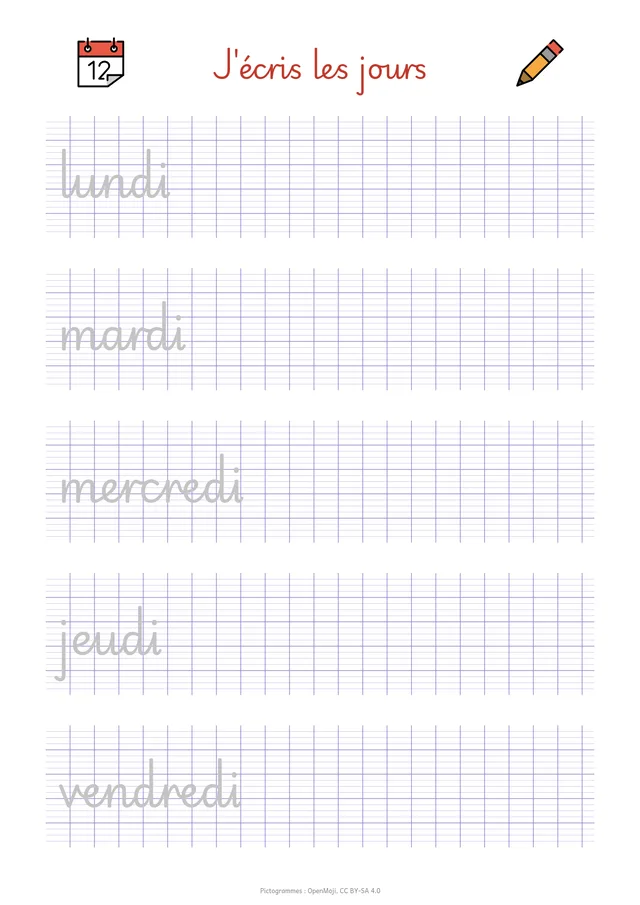
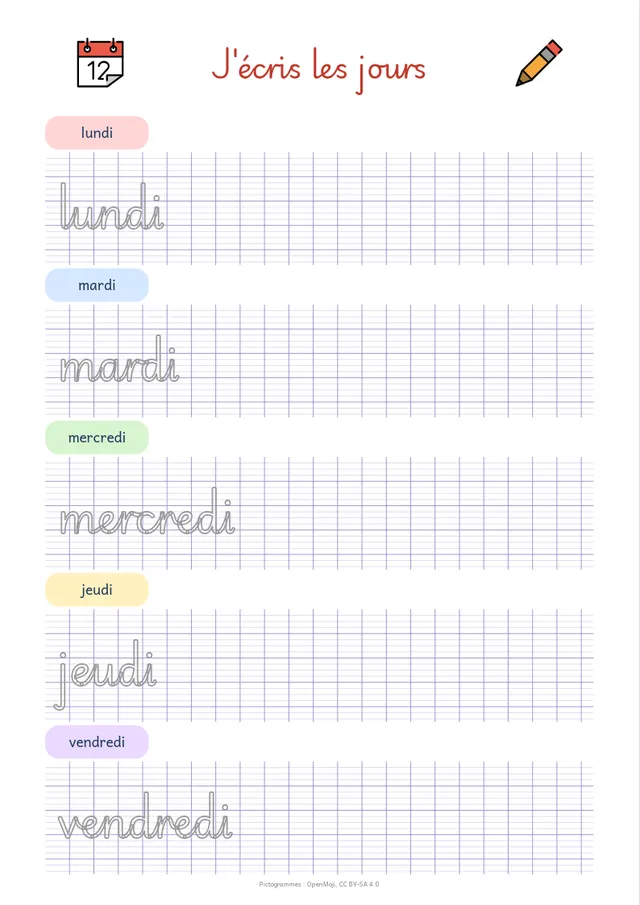
docs: nouveautés de la 0.19, README, site et captures à jour
- Écran « Nouveautés » : six nouveautés pour la 0.19 (flèches qui suivent, chemins et crayon, bulles,
  exemples refaits, réglages de la page, plus simple au quotidien), cinq avec une capture.
- README : cadres autour d'un élément, taper pour écrire, Réglages de la page.
- Site : flèches, chemins, crayon et bulles ; légendes des exemples refaits ; pages d'exemples, écran de
  l'application et capture du README refaits.
- Captures : scènes de la 0.19 et des pages d'exemples ; capturer.sh force l'écran virtuel X11 (sous
  Wayland, l'application s'ouvrait sur le bureau) et un écran plus haut pour les pages entières.

Claude-Session: https://claude.ai/code/session_01RanHT46EuS5uCpfRj5GU87

diff --git a/site/index.html b/site/index.html
@@ -57,7 +57,7 @@
   </div>
 
   <figure class="colle">
-    <img src="img/app-anniversaire.webp" width="1440" height="1032" alt="L'écran de Cahutin : à gauche les outils et le tiroir Modèles ouvert sur les modèles pour la classe (memory, loto, lettres mobiles, présences, anniversaires), au centre la page « Joyeux anniversaire » avec son gâteau, ses ballons et le prénom à remplir, en haut le bandeau qui propose de la remplir avec la classe.\">
+    <img src="img/app-anniversaire.webp" width="1440" height="1032" alt="L'écran de Cahutin : à gauche les outils et le tiroir Modèles ouvert sur les modèles pour la classe (memory, loto, lettres mobiles, présences, anniversaires), au centre la page « Joyeux anniversaire » avec sa guirlande de fanions, ses ballons, le gâteau à colorier et le prénom à remplir, en haut le bandeau qui propose de la remplir avec la classe.">
   </figure>
 </header>
 
@@ -66,16 +66,16 @@
   <h2 id="exemples">Des exemples à modifier</h2>
   <p class="intro">Onze exemples sont fournis avec Cahutin. On en ouvre un depuis l'écran d'accueil, on remplace les photos et les textes, et on imprime. Les zones en pointillés attendent vos photos.</p>
   <ul class="exemples">
-    <li><img src="img/page-ferme.webp" width="640" height="905" loading="lazy" alt="Page « Notre sortie à la ferme » sur papier kraft : frise d'animaux, deux photos à déposer avec leur légende, une bulle de parole et une chèvre."><b>Sortie à la ferme</b><span>Frise d'animaux, photos légendées, bulle de parole.</span></li>
-    <li><img src="img/page-anniversaire.webp" width="640" height="905" loading="lazy" alt="Page « Joyeux anniversaire » : ballons et cadeaux en frise, gâteau entouré d'étoiles, prénom et âge de l'enfant à remplir."><b>Joyeux anniversaire</b><span>Prénom et âge remplis avec la classe.</span></li>
-    <li><img src="img/page-meteo.webp" width="640" height="905" loading="lazy" alt="Page « La météo de la semaine » sur petits carreaux : cinq jours avec soleil, nuage, pluie, neige et arc-en-ciel, et une flèche « Aujourd'hui »."><b>La météo de la semaine</b><span>Petits carreaux, une colonne par jour.</span></li>
-    <li><img src="img/page-prenom.webp" width="640" height="905" loading="lazy" alt="Page « J'écris mon prénom » : le prénom Léa en lettres creuses, puis des lignes Seyès, la première avec le prénom à repasser."><b>J'écris mon prénom</b><span>Lettres creuses, lignes Seyès à repasser.</span></li>
-    <li><img src="img/page-saisons.webp" width="640" height="905" loading="lazy" alt="Page « Les saisons » dans un cadre vert : printemps, été, automne et hiver, chacun avec une image et des lignes pour écrire."><b>Les saisons</b><span>Quatre cases, une image et des lignes par saison.</span></li>
-    <li><img src="img/page-emotions.webp" width="640" height="905" loading="lazy" alt="Page « Le loto des émotions » : douze cartes à découper, chacune avec un visage et son émotion."><b>Le loto des émotions</b><span>Douze cartes à découper.</span></li>
-    <li><img src="img/page-jours.webp" width="640" height="905" loading="lazy" alt="Page « J'écris les jours » : les jours de la semaine en cursive gris clair, à repasser sur des lignes Seyès."><b>J'écris les jours</b><span>Cursive à repasser sur Seyès.</span></li>
-    <li><img src="img/page-regles.webp" width="640" height="905" loading="lazy" alt="Affiche A3 « Les règles de la classe » : six règles, chacune avec son pictogramme."><b>Les règles de la classe</b><span>Une affiche A3, ou deux feuilles A4.</span></li>
-    <li><img src="img/page-sens.webp" width="640" height="905" loading="lazy" alt="Page « Mes cinq sens » : œil, oreille, nez, bouche et main, chacun avec son verbe et des lignes pour écrire."><b>Mes cinq sens</b><span>Pictogrammes et lignes d'écriture.</span></li>
-    <li><img src="img/page-porte-manteaux.webp" width="640" height="905" loading="lazy" alt="Planche d'étiquettes de porte-manteau : huit étiquettes colorées, chacune avec une photo et le prénom en capitales et en cursive à remplir."><b>Étiquettes de porte-manteau</b><span>Remplies d'un clic avec la classe.</span></li>
+    <li><img src="img/page-ferme.webp" width="640" height="905" loading="lazy" alt="Page « Notre sortie à la ferme » dans un cadre vert : un tracteur et un soleil autour du titre, la date, deux photos à déposer façon Polaroid avec leur légende, une bulle de parole qui vise la chèvre, des lignes pour écrire et des animaux dans le pré."><b>Sortie à la ferme</b><span>Photos façon Polaroid, bulle qui vise la chèvre.</span></li>
+    <li><img src="img/page-anniversaire.webp" width="640" height="905" loading="lazy" alt="Page « Joyeux anniversaire » : guirlande de fanions, ballons, gâteau à colorier entouré d'étoiles, prénom en lettres creuses et âge de l'enfant à remplir, une photo et des lignes pour écrire."><b>Joyeux anniversaire</b><span>Gâteau à colorier, prénom et âge remplis avec la classe.</span></li>
+    <li><img src="img/page-meteo.webp" width="640" height="905" loading="lazy" alt="Page « La météo de la semaine » sur petits carreaux : une carte de couleur par jour avec soleil, nuage, pluie, neige et arc-en-ciel, une flèche courbe « Aujourd'hui » et une bulle de pensée pour écrire."><b>La météo de la semaine</b><span>Une carte par jour, flèche courbe, bulle de pensée.</span></li>
+    <li><img src="img/page-prenom.webp" width="640" height="905" loading="lazy" alt="Page « J'écris mon prénom » : une photo à déposer, le prénom Léa en lettres creuses, des lignes Seyès, la première avec le prénom à repasser, et une étoile « Bravo »."><b>J'écris mon prénom</b><span>Modèle en lettres creuses, lignes Seyès.</span></li>
+    <li><img src="img/page-saisons.webp" width="640" height="905" loading="lazy" alt="Page « Les saisons » : quatre panneaux de couleur, printemps, été, hiver et automne, autour d'un arbre, chacun avec une image et des lignes pour écrire."><b>Les saisons</b><span>Quatre panneaux de couleur autour de l'arbre.</span></li>
+    <li><img src="img/page-emotions.webp" width="640" height="905" loading="lazy" alt="Page « Le loto des émotions » : douze cartes de couleur à découper, chacune avec un visage et son émotion."><b>Le loto des émotions</b><span>Douze cartes de couleur à découper.</span></li>
+    <li><img src="img/page-jours.webp" width="640" height="905" loading="lazy" alt="Page « J'écris les jours » : chaque jour de la semaine sur une étiquette de couleur, puis en cursive creuse à repasser sur des lignes Seyès."><b>J'écris les jours</b><span>Étiquettes de couleur, cursive à repasser.</span></li>
+    <li><img src="img/page-regles.webp" width="640" height="905" loading="lazy" alt="Affiche A3 « Les règles de la classe » : un bandeau bleu, six règles numérotées, chacune avec son pictogramme, et une place pour les signatures."><b>Les règles de la classe</b><span>Une affiche A3, ou deux feuilles A4.</span></li>
+    <li><img src="img/page-sens.webp" width="640" height="905" loading="lazy" alt="Page « Mes cinq sens » : une carte mentale, l'enfant au centre relié par des flèches à cinq cartes, œil, oreille, nez, bouche et main, chacune avec son verbe et des lignes pour écrire."><b>Mes cinq sens</b><span>Une carte mentale dont les flèches suivent les cartes.</span></li>
+    <li><img src="img/page-porte-manteaux.webp" width="640" height="905" loading="lazy" alt="Planche d'étiquettes de porte-manteau : huit étiquettes colorées, chacune avec une photo, un animal et le prénom en capitales et en cursive à remplir."><b>Étiquettes de porte-manteau</b><span>Remplies d'un clic avec la classe.</span></li>
   </ul>
   <figure class="colle petite">
     <img src="img/page-semaine.webp" width="902" height="638" loading="lazy" alt="Page en paysage « Notre semaine » : un emploi du temps en tableau, les jours en couleur, un pictogramme par activité, l'accueil, les rituels, la récréation et le repas sur toute la semaine.">
@@ -90,7 +90,7 @@
     <li><span class="pastille" aria-hidden="true"><img src="img/pastilles/1F9D2.svg" width="36" height="36" alt=""></span><h3>Remplir avec sa classe</h3>On colle la liste des prénoms une fois, ou on l'importe d'un tableur ou d'ONDE. Cahutin remplit ensuite une planche d'étiquettes (prénom en capitales, en script et en cursive), une page par enfant avec son âge, ou l'affiche des anniversaires, pour toute la classe, un niveau, un groupe ou les élèves que vous cochez.</li>
     <li><span class="pastille" aria-hidden="true"><img src="img/pastilles/1F4F7.svg" width="36" height="36" alt=""></span><h3>Poser ses photos</h3>On importe un dossier entier, on glisse chaque photo dans sa case, on la recadre d'un double-clic. On peut aussi coller une image copiée dans un autre logiciel, ou glisser des photos depuis ses dossiers. La photothèque de la classe garde les photos de l'année, rangées par jour, par enfant et par activité, et signale les enfants peu photographiés. Pour un enfant sans autorisation photo, on floute son visage d'un clic.</li>
     <li><span class="pastille" aria-hidden="true"><img src="img/pastilles/270F.svg" width="36" height="36" alt=""></span><h3>Écrire avec des polices d'école</h3>Cursive (Playwrite FR Moderne), écriture lisible pour les débutants (Andika), police pour les élèves dyslexiques (OpenDyslexic). Lettres à repasser, lignes Seyès dans un cadre où le texte se pose sur les lignes, styles Titre, Consigne, Prénom. Des listes à puces, l'interligne, une taille libre jusqu'à 400 pt, et un bouton pour les lettres difficiles à taper (É, À, Ç) et les guillemets.</li>
-    <li><span class="pastille" aria-hidden="true"><img src="img/pastilles/1F3A8.svg" width="36" height="36" alt=""></span><h3>Décorer, tracer, organiser</h3>Plus de 2 000 images à chercher en français, dont les rituels, le matériel et les émotions, les personnes dans toutes les couleurs de peau, et votre collection de dessins, gardée pour tous vos documents ; cadres, frises, fonds Seyès ou kraft. Des fiches de graphisme à repasser, avec de moins en moins de pointillés d'une ligne à l'autre, des labyrinthes, des dessins à compléter par symétrie. Des tableaux, un bloc répété sur toute la page, des repères de découpe. Les pages se remettent dans l'ordre en glissant leur miniature.</li>
+    <li><span class="pastille" aria-hidden="true"><img src="img/pastilles/1F3A8.svg" width="36" height="36" alt=""></span><h3>Décorer, tracer, organiser</h3>Plus de 2 000 images à chercher en français, dont les rituels, le matériel et les émotions, les personnes dans toutes les couleurs de peau, et votre collection de dessins, gardée pour tous vos documents ; cadres, frises, fonds Seyès ou kraft. Des flèches qui s'accrochent aux étiquettes et les suivent, des chemins en courbe, un crayon pour dessiner à main levée, des bulles de parole et de pensée qui visent celui qui parle. Des fiches de graphisme à repasser, avec de moins en moins de pointillés d'une ligne à l'autre, des labyrinthes, des dessins à compléter par symétrie. Des tableaux, un bloc répété sur toute la page, des repères de découpe. Les pages se remettent dans l'ordre en glissant leur miniature.</li>
     <li><span class="pastille" aria-hidden="true"><img src="img/pastilles/1F4D8.svg" width="36" height="36" alt=""></span><h3>Apprendre pas à pas</h3>Des bulles d'aide au bon moment, une visite d'une minute dans le menu Aide et des guides en images : créer un modèle, remplir avec sa classe, ranger la photothèque, flouter un visage, faire des étiquettes à découper… À la fin de chaque guide, « Me guider » montre les vrais boutons, un à un, sur votre propre document.</li>
     <li><span class="pastille" aria-hidden="true"><img src="img/pastilles/1F441.svg" width="36" height="36" alt=""></span><h3>À votre vue</h3>Un thème à votre goût, dont Nuit, sombre pour travailler le soir (la page reste blanche). Interface plus grande, police très lisible ou pour les lecteurs dyslexiques, contraste élevé, grandes poignées pour un écran tactile ou un tableau blanc. Pour le daltonisme : le nom de chaque couleur, des couleurs que tous distinguent, et un aperçu de la page telle que la voit un élève daltonien.</li>
     <li><span class="pastille" aria-hidden="true"><img src="img/pastilles/1F5A8.svg" width="36" height="36" alt=""></span><h3>Imprimer ou partager</h3>A5, A4 ou A3, une affiche A3 sur deux A4, des cartes en recto-verso ; PDF, ou fichier pour LibreOffice où tout reste modifiable. Cahutin prévient quand un contenu est tout près du bord. Dans LibreOffice, un tableau reste un vrai tableau, et un document retouché se rouvre dans Cahutin avec ses groupes, ses champs à remplir et ses pictogrammes. On peut aussi reprendre une fiche Word, PDF ou LibreOffice existante : textes, photos, tableaux et tracés à leur place.</li>

diff --git a/ui/src/lib/whatsNew.ts b/ui/src/lib/whatsNew.ts
@@ -1,5 +1,5 @@
 // Nouveautés des versions : une fenêtre montrée une fois, après la mise à jour, à qui utilisait déjà
-// Cahutin (un nouvel utilisateur a la visite guidée). Rouvrable depuis le menu Aide, où l'on retrouve aussi
+// Cahutin (un nouvel utilisateur a des bulles d'aide). Rouvrable depuis le menu Aide, où l'on retrouve aussi
 // les nouveautés des versions précédentes. Pour une nouvelle version : l'ajouter en tête de RELEASES, ses
 // captures dans `assets/nouveautes/<version>/`. Une capture n'est pas obligatoire : une nouveauté qui ne change
 // rien de visible (un fichier mieux relu, par exemple) n'en a pas, et se range après celles qui en ont.
@@ -18,6 +18,40 @@ export interface Release {
 
 /** De la plus récente à la plus ancienne. */
 export const RELEASES: Release[] = [
+  {
+    version: "0.19",
+    items: [
+      {
+        title: "Des flèches qui suivent",
+        text: "Tirez le bout d'un trait ou d'une flèche pour l'amener où vous voulez. « Début » et « Fin » choisissent ce qui termine chaque bout : une flèche, un rond, un carré, ou rien. Lâché près d'une étiquette, d'une forme ou d'une image, le bout s'y accroche : quand vous la déplacez, la flèche suit. Idéal pour un schéma ou une carte mentale.",
+        image: "/nouveautes/0.19/fleches.webp",
+      },
+      {
+        title: "Des chemins, des courbes et un crayon",
+        text: "« Prolonger » ajoute un coude à chaque clic sur la page ; tirer le milieu d'un trait le plie aussi. « Courbe » adoucit les angles, « Fermer » referme le chemin pour le remplir d'une couleur. Dans le tiroir Formes, la tuile « Crayon » dessine à main levée, à la souris ou au doigt.",
+        image: "/nouveautes/0.19/chemins.webp",
+      },
+      {
+        title: "Des bulles qui visent celui qui parle",
+        text: "Sélectionnez une bulle de parole : faites glisser le losange jaune pour diriger sa pointe. Le tiroir Formes a aussi une bulle de pensée, et le nuage est redessiné, comme à la main.",
+        image: "/nouveautes/0.19/bulles.webp",
+      },
+      {
+        title: "Des exemples refaits",
+        text: "Les onze exemples de l'accueil sont plus jolis, et chacun montre une autre façon de faire : photos façon Polaroid, guirlande de fanions, carte mentale, étiquettes de couleur. Ouvrez-en un, changez les photos et les textes, et imprimez.",
+        image: "/nouveautes/0.19/exemples.webp",
+      },
+      {
+        title: "Régler la page",
+        text: "Quand rien n'est sélectionné, le panneau Réglages, à droite, règle la page affichée : son format (A5, A4, A3), portrait ou paysage, son fond et le vis-à-vis.",
+        image: "/nouveautes/0.19/reglages.webp",
+      },
+      {
+        title: "Plus simple au quotidien",
+        text: "Sur un texte sélectionné, tapez directement au clavier : plus besoin de double-cliquer. Un modèle choisi sur une page vide la remplace, sans laisser de page blanche. Dans le tiroir Décors, les cadres s'appliquent aussi autour d'une photo, d'un texte ou d'un groupe. Au premier lancement, de petites bulles d'aide viennent au bon moment ; la visite guidée est dans le menu Aide.",
+      },
+    ],
+  },
   {
     version: "0.18",
     items: [

diff --git a/ui/src/lib/whatsNew.test.ts b/ui/src/lib/whatsNew.test.ts
@@ -39,9 +39,9 @@ test("each novelty has a title, a text, its own screenshot on disk if any, and n
   expect(new Set(images).size).toBe(images.length);
 });
 
-test("version 0.18 opens with bulleted lists", () => {
-  expect(WHATS_NEW.version).toBe("0.18");
-  expect(WHATS_NEW.items[0].image).toBe("/nouveautes/0.18/puces.webp");
+test("version 0.19 opens with arrows that follow", () => {
+  expect(WHATS_NEW.version).toBe("0.19");
+  expect(WHATS_NEW.items[0].image).toBe("/nouveautes/0.19/fleches.webp");
 });
 
 // L'état de l'enregistrement se voit au point du bouton « Enregistrer » : plus rien ne s'affiche près du titre. La

diff --git a/README.md b/README.md
@@ -51,14 +51,14 @@ Au premier lancement, Cahutin demande s'il doit vous prévenir quand une nouvell
 - **Modèles** fournis (Grille de photos, Récit, Page à compléter, Étiquettes, Étiquettes photo, Étiquettes 3 écritures, Photos et textes, Photos légendées, Affiche paysage), modèles pour la classe (Memory et Loto des prénoms, Lettres mobiles, J'écris mon prénom, Tableau des présences, Affiche des anniversaires) et modèles personnels (« Partir d'un modèle » > « Créer un modèle ») à partager entre collègues : chaque texte ou image y est « À remplir » ou « Fixe », et ce qui n'est ni l'un ni l'autre (une photo d'enfant posée avant) n'est pas gardé.
 - **Exemples** à découvrir depuis l'écran d'accueil : Sortie à la ferme, Joyeux anniversaire, La météo de la semaine, J'écris mon prénom, Les saisons, Notre semaine (emploi du temps), Le loto des émotions, J'écris les jours, Les règles de la classe (A3), Mes cinq sens, Étiquettes de porte-manteau.
 - **Photos** : import d'un dossier entier, photos du document (tiroir Images, une croix pour en retirer une), recadrage, miroir, coins arrondis, bordure, ombre, légende, flou des visages (repérés sur l'ordinateur ou tracés à la main) pour les enfants sans autorisation photo.
-- **Textes** : gras, italique, souligné, couleurs, alignement, listes à puces, interligne (Serré, Normal, Aéré ou Double), taille tapée librement de 4 à 400 pt ; polices lisibles pour l'école fournies (Andika, Atkinson Hyperlegible, OpenDyslexic, Playwrite FR Moderne pour la cursive), polices ajoutées et polices installées sur l'ordinateur ; lettres à repasser ou creuses, lignes d'écriture dans un cadre (Seyès, lignes, petits carreaux), où le texte peut se poser sur les lignes, styles de texte nommés (Titre, Consigne, Prénom, les vôtres) qui se modifient d'un coup. Pendant l'écriture, le bouton É écrit les lettres difficiles à taper (É, À, Ç…) et les guillemets « ». Un texte trop long est signalé, et « Agrandir le cadre » ou « Réduire le texte » le corrige d'un clic.
+- **Textes** : gras, italique, souligné, couleurs, alignement, listes à puces, interligne (Serré, Normal, Aéré ou Double), taille tapée librement de 4 à 400 pt ; polices lisibles pour l'école fournies (Andika, Atkinson Hyperlegible, OpenDyslexic, Playwrite FR Moderne pour la cursive), polices ajoutées et polices installées sur l'ordinateur ; lettres à repasser ou creuses, lignes d'écriture dans un cadre (Seyès, lignes, petits carreaux), où le texte peut se poser sur les lignes, styles de texte nommés (Titre, Consigne, Prénom, les vôtres) qui se modifient d'un coup. Sur un texte sélectionné, on tape directement au clavier, sans double-clic. Pendant l'écriture, le bouton É écrit les lettres difficiles à taper (É, À, Ç…) et les guillemets « ». Un texte trop long est signalé, et « Agrandir le cadre » ou « Réduire le texte » le corrige d'un clic.
 - **Classe** : liste des élèves (photo avec autorisation, symbole, niveau, groupe, date de naissance), collée ou importée d'un tableur ou d'un export ONDE (.csv), gardée sur l'ordinateur, avec la photothèque de l'année : les dossiers de photos de l'enseignant, suivis sans être copiés (seules de petites vignettes sont gardées), photos rangées par jour, élèves présents et activités cochés d'un clic (photo en grand, « Marquer un enfant »), enfants peu photographiés signalés. Réglages d'un coup pour une grande classe (autorisation photo, un symbole par enfant, et un même niveau ou un même groupe pour les élèves cochés). Génération d'une page par élève, d'une planche d'étiquettes remplie ou d'une affiche, pour toute la classe, un niveau, un groupe ou les élèves cochés un par un ; champs de la classe posés depuis le tiroir Champs ou le bouton « { } Champ » ({prenom}, {nom}, {groupe}, {age}, {anniversaire}, lettres du prénom), affichés en pastille, imprimés en blanc tant qu'ils ne sont pas remplis ; date (plusieurs formats), année scolaire, saison, classe, école et enseignant, écrits à la pose ou à la création de la page.
 - **Tableaux** : cases avec texte, pictogramme ou photo, lignes et colonnes à ajouter ou retirer, cases fusionnées (leur texte est gardé), traits réglables ; Tab passe à la case suivante, Maj+Tab à la précédente, et des cellules copiées depuis un tableur se collent une par case.
 - **Formes** : rectangle, ellipse, trait, flèche, double flèche, étoile, cœur, bulle de parole, nuage, posés d'un clic ou glissés sur la page ; traits et flèches qui se règlent en tirant leurs bouts, avec au choix à chaque bout une flèche pleine, une flèche ouverte, un rond ou un carré, en trois tailles ; chemins à coudes ou en courbe, prolongés clic après clic ou pliés en tirant le milieu d'un segment, ouverts ou fermés et remplis ; flèches qui s'accrochent aux éléments et les suivent quand on les déplace (schémas) ; crayon pour dessiner à main levée ; bulles de parole et de pensée dont on dirige la pointe ; fiches de graphisme (ponts, vagues, boucles, créneaux… à repasser, à la taille de la section ; pointillés sur toute la ligne, sur une partie ou de moins en moins d'une ligne à l'autre, lignes guides ou couloir, point vert et flèche de départ, réglables même une fois les lignes posées), chemins en pointillés, labyrinthes, dessins à compléter par symétrie, repères pour écrire (point de départ, flèche).
 - **Images** : un seul tiroir pour les photos du document (et la photothèque de la classe), la Collection (les dessins et illustrations de l'enseignant, gardés pour tous ses documents ; une image posée s'y ajoute d'un clic ; une page « Ma collection », depuis l'accueil, les range par thème, les renomme et remet les images retirées) et plus de 2 000 pictogrammes OpenMoji avec recherche en français (catégories Rituels, Matériel, Émotions, Corps et soins pour la classe), personnes et mains dans cinq couleurs de peau, images à colorier (contour noir). Une recherche cherche à la fois dans la Collection et les pictogrammes.
-- **Décors** : cadres de page et frises (pictogrammes ou images de la collection, taille et espacement réglables, même après coup), dont les images se choisissent dans une fenêtre.
+- **Décors** : cadres de page, aussi autour d'une photo, d'un texte ou d'un groupe (le cadre suit l'élément), et frises (pictogrammes ou images de la collection, taille et espacement réglables, même après coup), dont les images se choisissent dans une fenêtre.
 - **Fonds de page** : couleur, Seyès, petits carreaux, lignes, pointillés, papier kraft.
-- **Miroir** gauche-droite et haut-bas des photos, images, formes et groupes, en un seul outil de la barre ; rotation par crans de 15° (degré par degré avec Maj) et par quarts de tour. Un panneau Réglages identique pour tout élément ou groupe.
+- **Miroir** gauche-droite et haut-bas des photos, images, formes et groupes, en un seul outil de la barre ; rotation par crans de 15° (degré par degré avec Maj) et par quarts de tour. Un panneau Réglages identique pour tout élément ou groupe ; quand rien n'est sélectionné, il règle la page (format, orientation, fond, vis-à-vis).
 - **Groupes**, y compris des groupes dans des groupes (« Dissocier » n'enlève qu'un niveau, un double-clic entre dans un groupe), sélection au cadre, tout sélectionner (Ctrl+A, sauf les éléments verrouillés), alignement, répétition d'un bloc en grille, repères de découpe, verrouillage, annulation.
 - **Coller et déposer** : une image ou un texte copiés dans un autre logiciel (navigateur, capture d'écran, Word), ou des photos glissées depuis ses dossiers, se posent sur la page. Rien n'est téléchargé.
 - **Enregistrement automatique**, à cocher avec la case « Automatique » à côté du bouton « Enregistrer », ou dans Préférences > Enregistrement (décoché au départ) : un document qui a un fichier s'y enregistre tout seul quelques secondes après chaque changement. Un fichier changé ailleurs n'est jamais écrasé. Fichier > « Revenir à la version du début de séance » reprend la version gardée au début de la séance, et Ctrl+Z annule ce retour.
